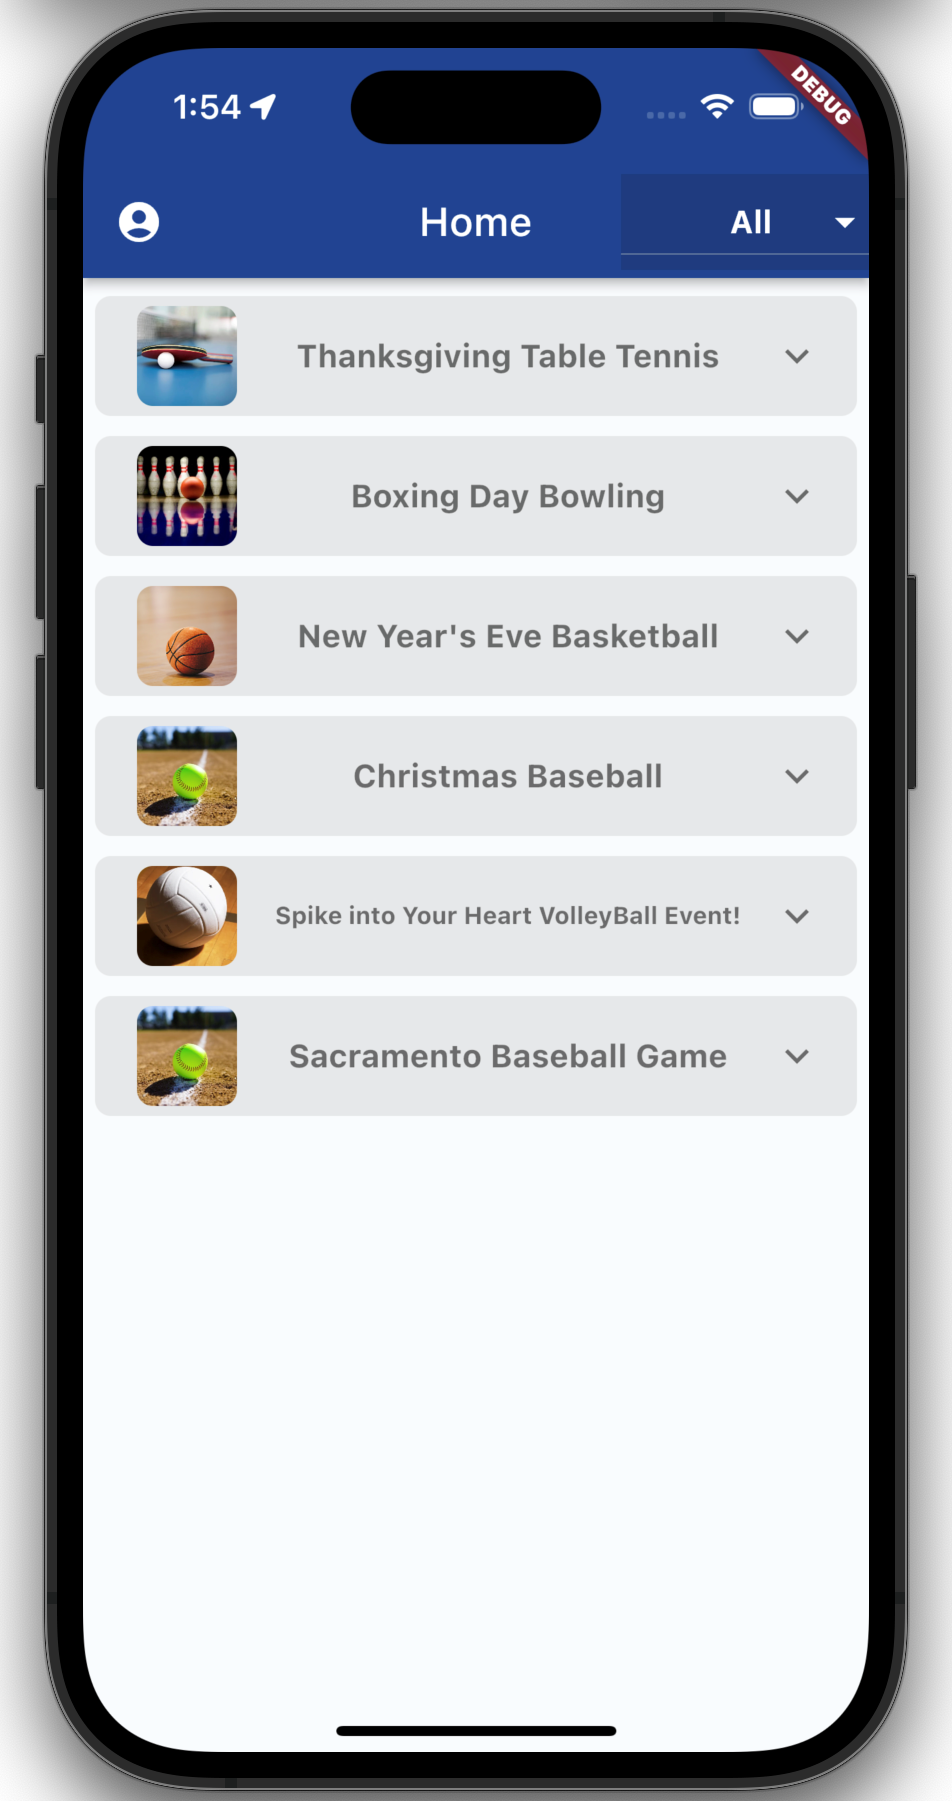
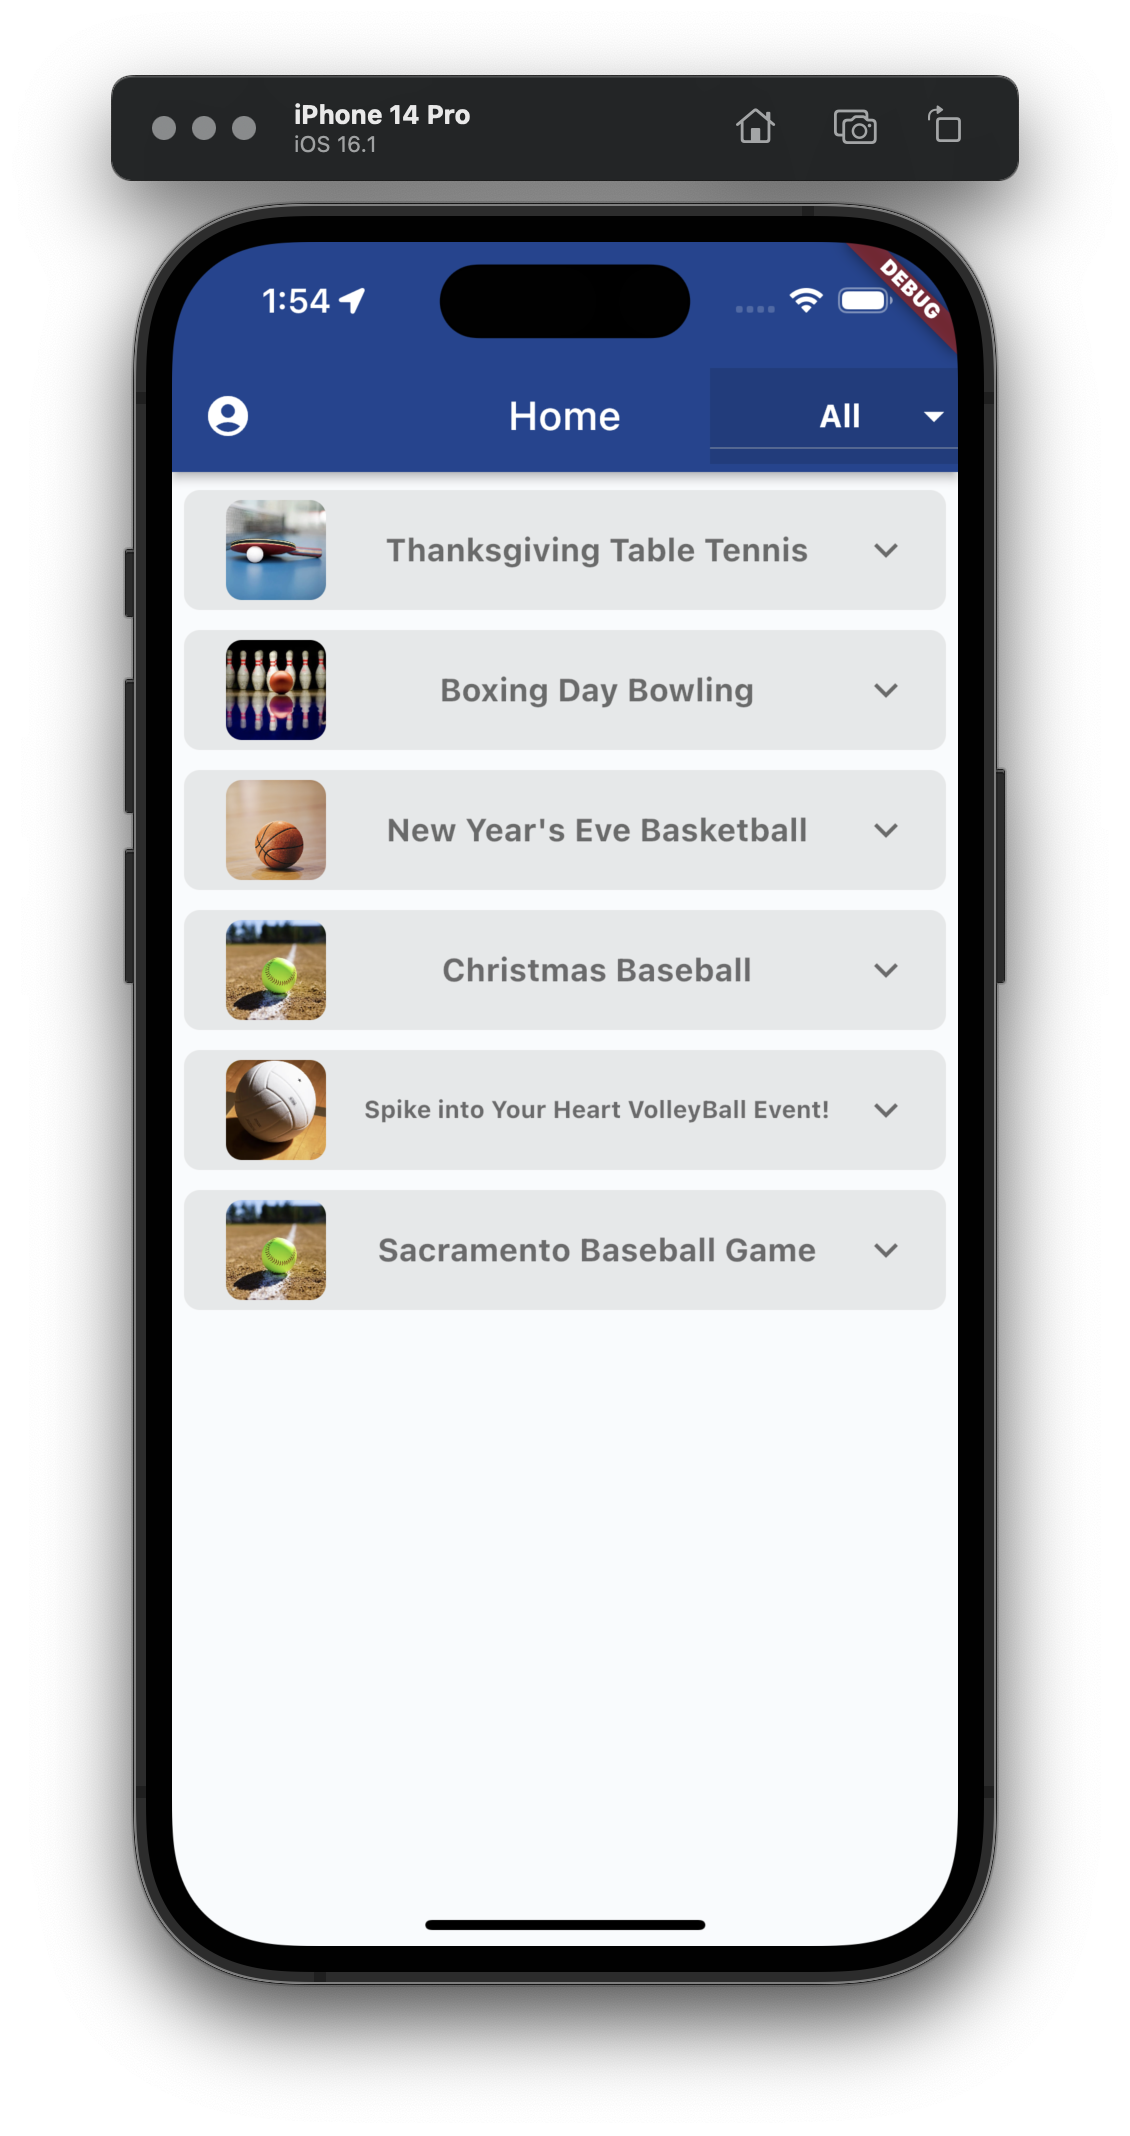
Images in markdown are hard.

diff --git a/profile/README.md b/profile/README.md
@@ -23,12 +23,12 @@ they can begin listing games.
 
 <div align="right" width="67%">
 <p float="right">
-<img align="" src="assets/Home_Page.png" width="25%">
-<img align="" src="assets/Login_Page.png" width="25%">
+<img align="right" src="assets/Home_Page.png" width="25%">
+<img align="right" src="assets/Login_Page.png" width="25%">
 </p>
 <p float="right">
-<img align="" src="assets/Profile_Page.png" width="25%">
-<img align="" src="assets/Game_Detail_Page.png" width="25%">
+<img align="right" src="assets/Profile_Page.png" width="25%">
+<img align="right" src="assets/Game_Detail_Page.png" width="25%">
 </p>
 </div>
 
